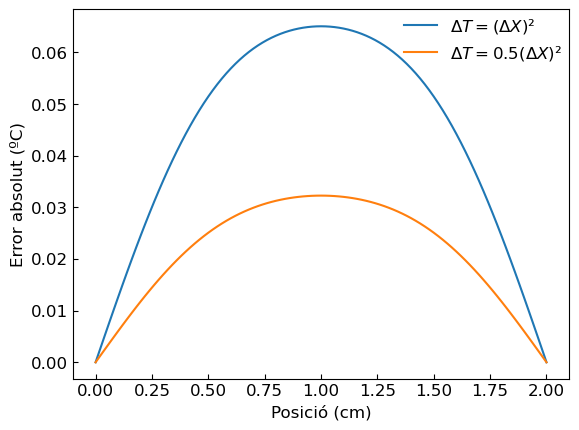
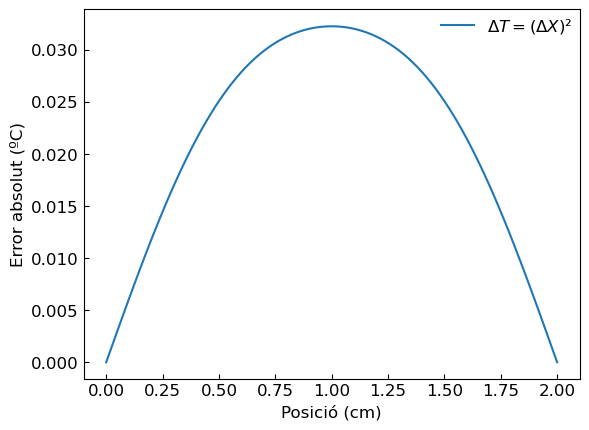
soluciotemps

diff --git a/soluciotemps.py b/soluciotemps.py
@@ -9,42 +9,46 @@ N = 101
 ta = 0.025    
 Pext = (0.472*40**2)/(2*L**2)
 To = 309.65*((0.56)/(Pext*L**2))  
+cv = 3686
+ro = 1081
+k = 0.56
 x = np.linspace(0, 2, N)
 
 # Discretitzacions
 deltax = 1 / (N - 1)
-deltat_list = [(deltax)**2, 0.5*((deltax)**2)]    
+deltat = 0.5*((deltax)**2)
 
 T_list = []
 err_list = []
 errp_list = []
-for deltat in deltat_list:
-    gamma = deltat / deltax**2
-    # Condició inicial
-    T = To*np.ones(N)
 
-    # Matrius A i B
-    A = np.identity(N) + (gamma)*(np.diag(np.ones(N), 0) + np.diag(-0.5*np.ones(N-1), -1) + np.diag(-0.5*np.ones(N-1), 1))
-    B = np.identity(N) + (gamma)*(np.diag(-np.ones(N), 0) + np.diag(0.5*np.ones(N-1), -1) + np.diag(0.5*np.ones(N-1), 1))
+gamma = deltat / deltax**2
 
-    # Bucle
-    t = 0.0
-    while t < ta:
-        b = (B @ T) + deltat 
-        T = jacobi(A, b, T)  
-        if any(((T[0:36]/((0.56)/(Pext * L**2)))-273.15) > 50) == True:
-            print(t)
-            break
-        t += deltat
+# Condició inicial
+T = To*np.ones(N)
 
-    T_list.append((T/((0.56)/(Pext * L**2)))-273.15)
-    err_list.append(abs(analitica(t) - ((T/((0.56)/(Pext * L**2)))-273.15)))
-    errp_list.append((abs(analitica(t) - ((T/((0.56)/(Pext * L**2)))-273.15))/analitica(t))*100)
+# Matrius A i B
+A = np.identity(N) + (gamma)*(np.diag(np.ones(N), 0) + np.diag(-0.5*np.ones(N-1), -1) + np.diag(-0.5*np.ones(N-1), 1))
+B = np.identity(N) + (gamma)*(np.diag(-np.ones(N), 0) + np.diag(0.5*np.ones(N-1), -1) + np.diag(0.5*np.ones(N-1), 1))
+
+# Bucle
+t = 0.0
+while t < ta:
+    b = (B @ T) + deltat 
+    T = jacobi(A, b, T)  
+    if any(((T[0:36]/((0.56)/(Pext * L**2)))-273.15) > 50) == True:
+        print(f"temps normalitzat: {t}")
+        print(f"temps no normalitzat: {t*(cv*ro*(L/100)**2)/(k)}")
+        break
+    t += deltat
+
+T_list.append((T/((0.56)/(Pext * L**2)))-273.15)
+err_list.append(abs(analitica(t) - ((T/((0.56)/(Pext * L**2)))-273.15)))
+errp_list.append((abs(analitica(t) - ((T/((0.56)/(Pext * L**2)))-273.15))/analitica(t))*100)
 
 # Gràfica per cada cas
 plt.rcParams.update({'font.size': 12})
 plt.plot(x, T_list[0], label = f"$\\Delta T = (\\Delta X)²$")
-plt.plot(x, T_list[1], label = f"$\\Delta T = 0.5 (\\Delta X)²$")
 plt.hlines(50,0,2,color='r',linestyle='--')
 plt.hlines(80,0,2,color='r',linestyle='--')
 plt.vlines(0.75,36.5,80,color='r',linestyle='--')
@@ -58,7 +62,6 @@ plt.show()
 
 # Gràfica d'errors absoluts
 plt.plot(x, err_list[0], label = f"$\\Delta T = (\\Delta X)²$")
-plt.plot(x, err_list[1], label = f"$\\Delta T = 0.5 (\\Delta X)²$")
 plt.xlabel('Posició (cm)')
 plt.ylabel('Error absolut (ºC)')
 plt.gca().tick_params(direction="in")
@@ -68,7 +71,6 @@ plt.show()
 
 # Gràfica d'errros relatius percentuals
 plt.plot(x, errp_list[0], label = f"$\\Delta T = (\\Delta X)²$")
-plt.plot(x, errp_list[1], label = f"$\\Delta T = 0.5 (\\Delta X)²$")
 plt.xlabel('Posició (cm)')
 plt.ylabel('Error relatiu (%)')
 plt.gca().tick_params(direction="in")
